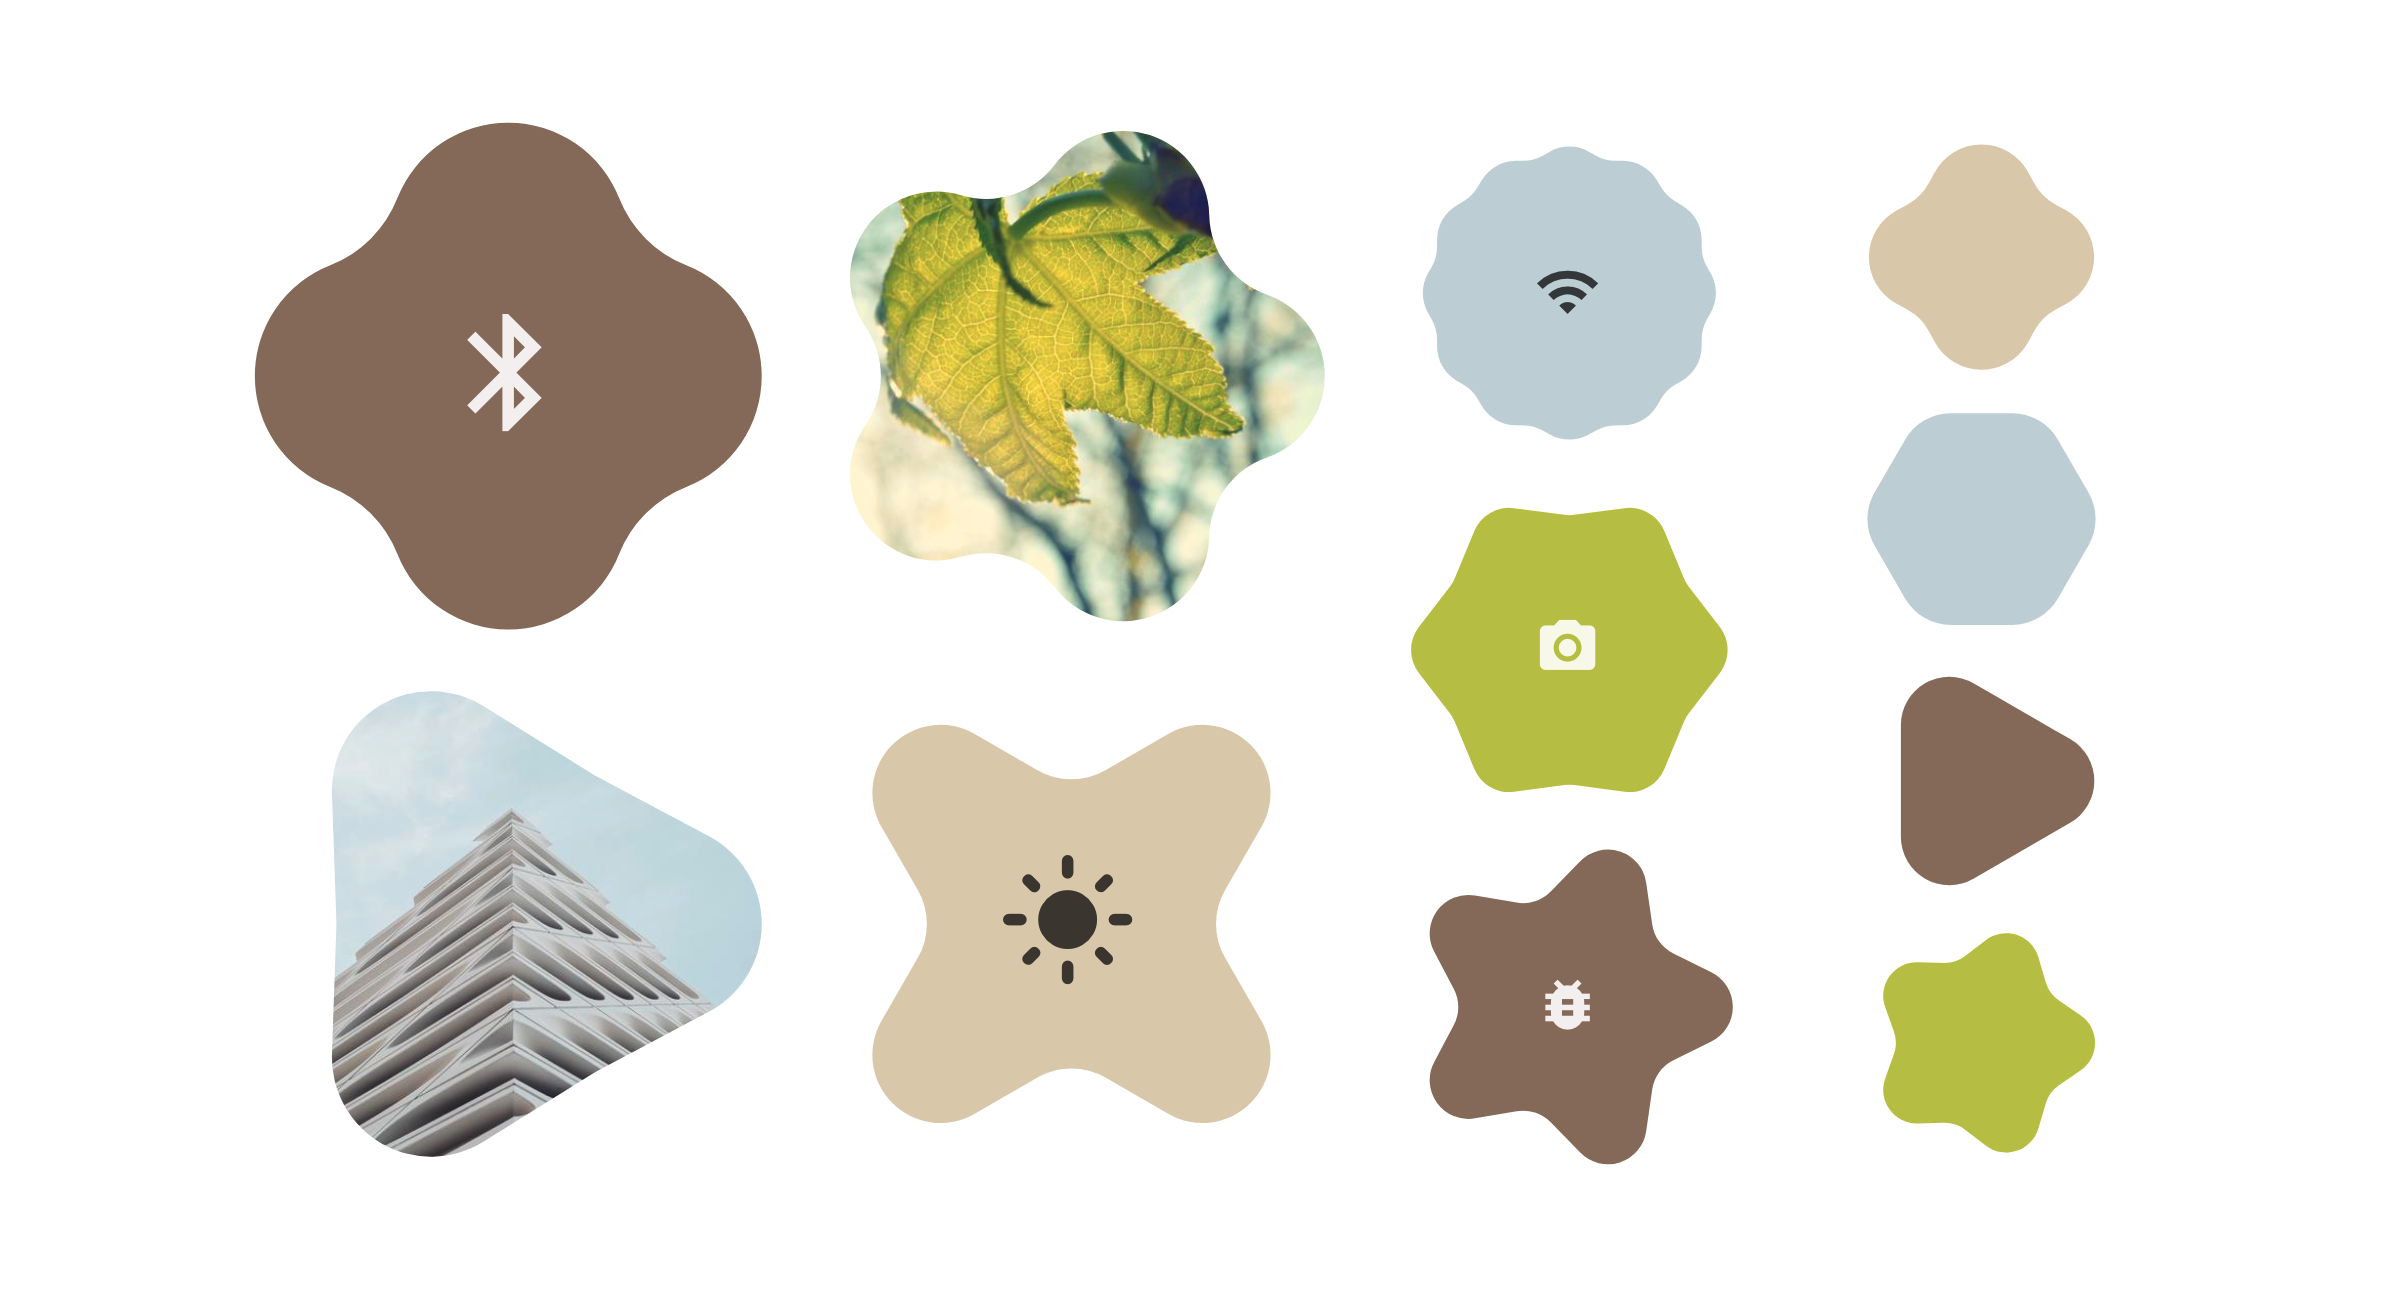
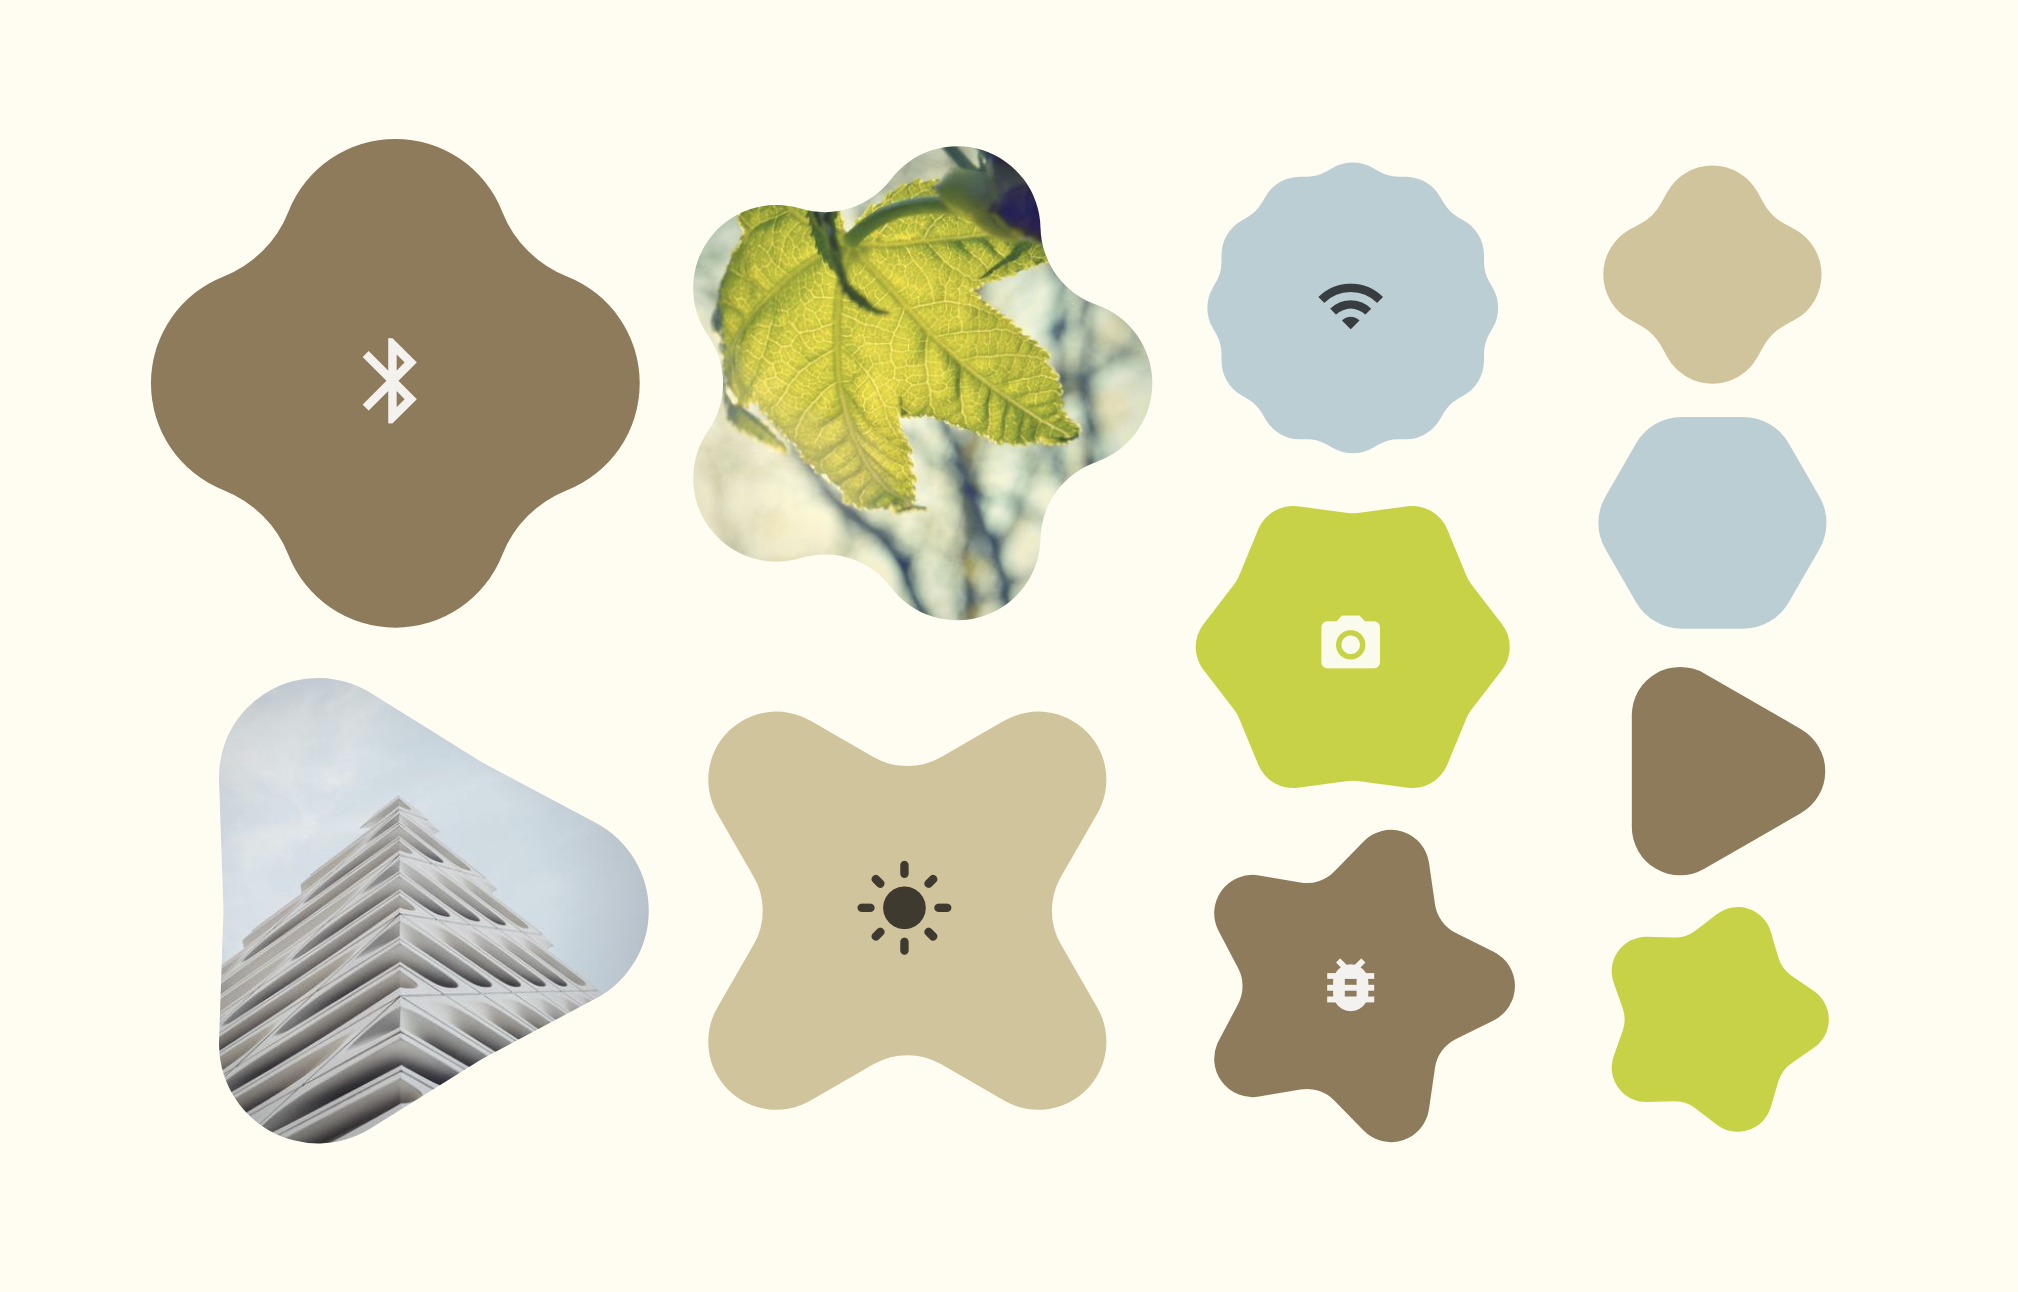
update screenshot

diff --git a/src/app/app.component.html b/src/app/app.component.html
@@ -1,17 +1,17 @@
 <div class='column'>
     <button class='icon-button c-5'
-            appRoundedPolygonClipPath>
+            [appRoundedPolygonClipPath]="{ outerRadius: 0.98 }">
         <span class="material-icons light">bluetooth</span>
     </button>
-    <div class="img-container"
+    <div class="img-container dark-overlay"
          [appRoundedPolygonClipPath]="{ cornerCount: 3, innerRadiusRatio: 0.47, cornerRadius: .6 }">
         <img src="https://picsum.photos/id/1081/500/500">
     </div>
 </div>
 
 <div class='column'>
-    <div class="img-container"
-         [appRoundedPolygonClipPath]="{ cornerCount:5 }">
+    <div class="img-container dark-overlay"
+         [appRoundedPolygonClipPath]="{ cornerCount: 5, outerRadius: 0.98  }">
         <img src="https://picsum.photos/id/309/500/500">
     </div>
     <button class='icon-button c-4'
@@ -37,15 +37,19 @@
 
 <div class='column'>
     <button class='icon-button c-4'
-            [appRoundedPolygonClipPath]="{ cornerCount: 4, innerRadiusRatio: .5, cornerRadius: 0.9, outerRadius: 0.97 }">
+            [appRoundedPolygonClipPath]="{ cornerCount: 4, innerRadiusRatio: .5, cornerRadius: 0.9, outerRadius: 0.95 }">
+
     </button>
     <button class='icon-button c-2'
             [appRoundedPolygonClipPath]="{ cornerCount: 3, innerRadiusRatio: 1, cornerRadius: 0.5, outerRadius: 0.97 }">
+
     </button>
     <button class='icon-button c-5'
             [appRoundedPolygonClipPath]="{ cornerCount: 3, innerRadiusRatio: .5, cornerRadius: 0.6, outerRadius: 0.97 }">
+
     </button>
     <button class='icon-button c-3'
-            [appRoundedPolygonClipPath]="{ cornerCount: 5, innerRadiusRatio: .6, cornerRadius: 0.7, outerRadius: 0.97 }">
+            [appRoundedPolygonClipPath]="{ cornerCount: 5, innerRadiusRatio: .6, cornerRadius: 0.7, outerRadius: 0.99 }">
+
     </button>
 </div>

diff --git a/src/app/app.component.scss b/src/app/app.component.scss
@@ -1,6 +1,6 @@
 :host {
   --column-2: 20vw;
-  --column-3: 12.9vw;
+  --column-3: 12.8vw;
   --column-4: 9.3vw;
   width: 100%;
   height: 100%;
@@ -8,7 +8,7 @@
   grid-template-columns: var(--column-2) var(--column-2) calc(var(--column-3) + 2vw) calc(var(--column-4) + 4vw);
   justify-content: center;
   align-content: center;
-  grid-gap: 2vw;
+  grid-gap: 0vw;
   padding: 2rem;
   font-size: 1vw;
 }
@@ -19,23 +19,26 @@
   justify-content: center;
   align-items: center;
 
+
   > * + * {
-    margin-top: 7%;
+    margin-top: 3%;
   }
 
   &:nth-child(1) > *,
   &:nth-child(2) > * {
     width: var(--column-2);
     height: var(--column-2);
-    font-size: 1.1em;
+    font-size: 0.8em;
   }
   &:nth-child(3) > * {
     width: var(--column-3);
     height: var(--column-3);
+    font-size: 0.55em;
   }
   &:nth-child(4) > * {
     width: var(--column-4);
     height: var(--column-4);
+    font-size: 0.65em;
   }
 }
 
@@ -78,9 +81,24 @@
 }
 
 .img-container {
+  position: relative;
+
   img {
     width: 100%;
     height: 100%;
     object-fit: cover;
+  }
+
+  &.dark-overlay::after {
+    content: '';
+    display: block;
+    position: absolute;
+    width: 100%;
+    height: 100%;
+    top: 0;
+    left: 0;
+    background: radial-gradient(closest-side, transparent 60%, #000);
+    opacity: .1;
+    mix-blend-mode: darken;
   }
 }

diff --git a/src/styles.scss b/src/styles.scss
@@ -7,16 +7,16 @@
 
 :root {
   --theme-color-1: #393F59;
-  --theme-color-2: #C5D3D9;
-  --theme-color-3: #BACA36;
-  --theme-color-4: #dbd0b1;
-  --theme-color-5: #8C7561;
+  --theme-color-2: #b2cfd5;
+  --theme-color-3: #c3d428;
+  --theme-color-4: #d5c499;
+  --theme-color-5: #957a59;
 }
 
 html, body {
   width: 100%;
   height: 100%;
-  //background: #342f2c;
+  background: #fffdf1;
 }
 
 @font-face {
